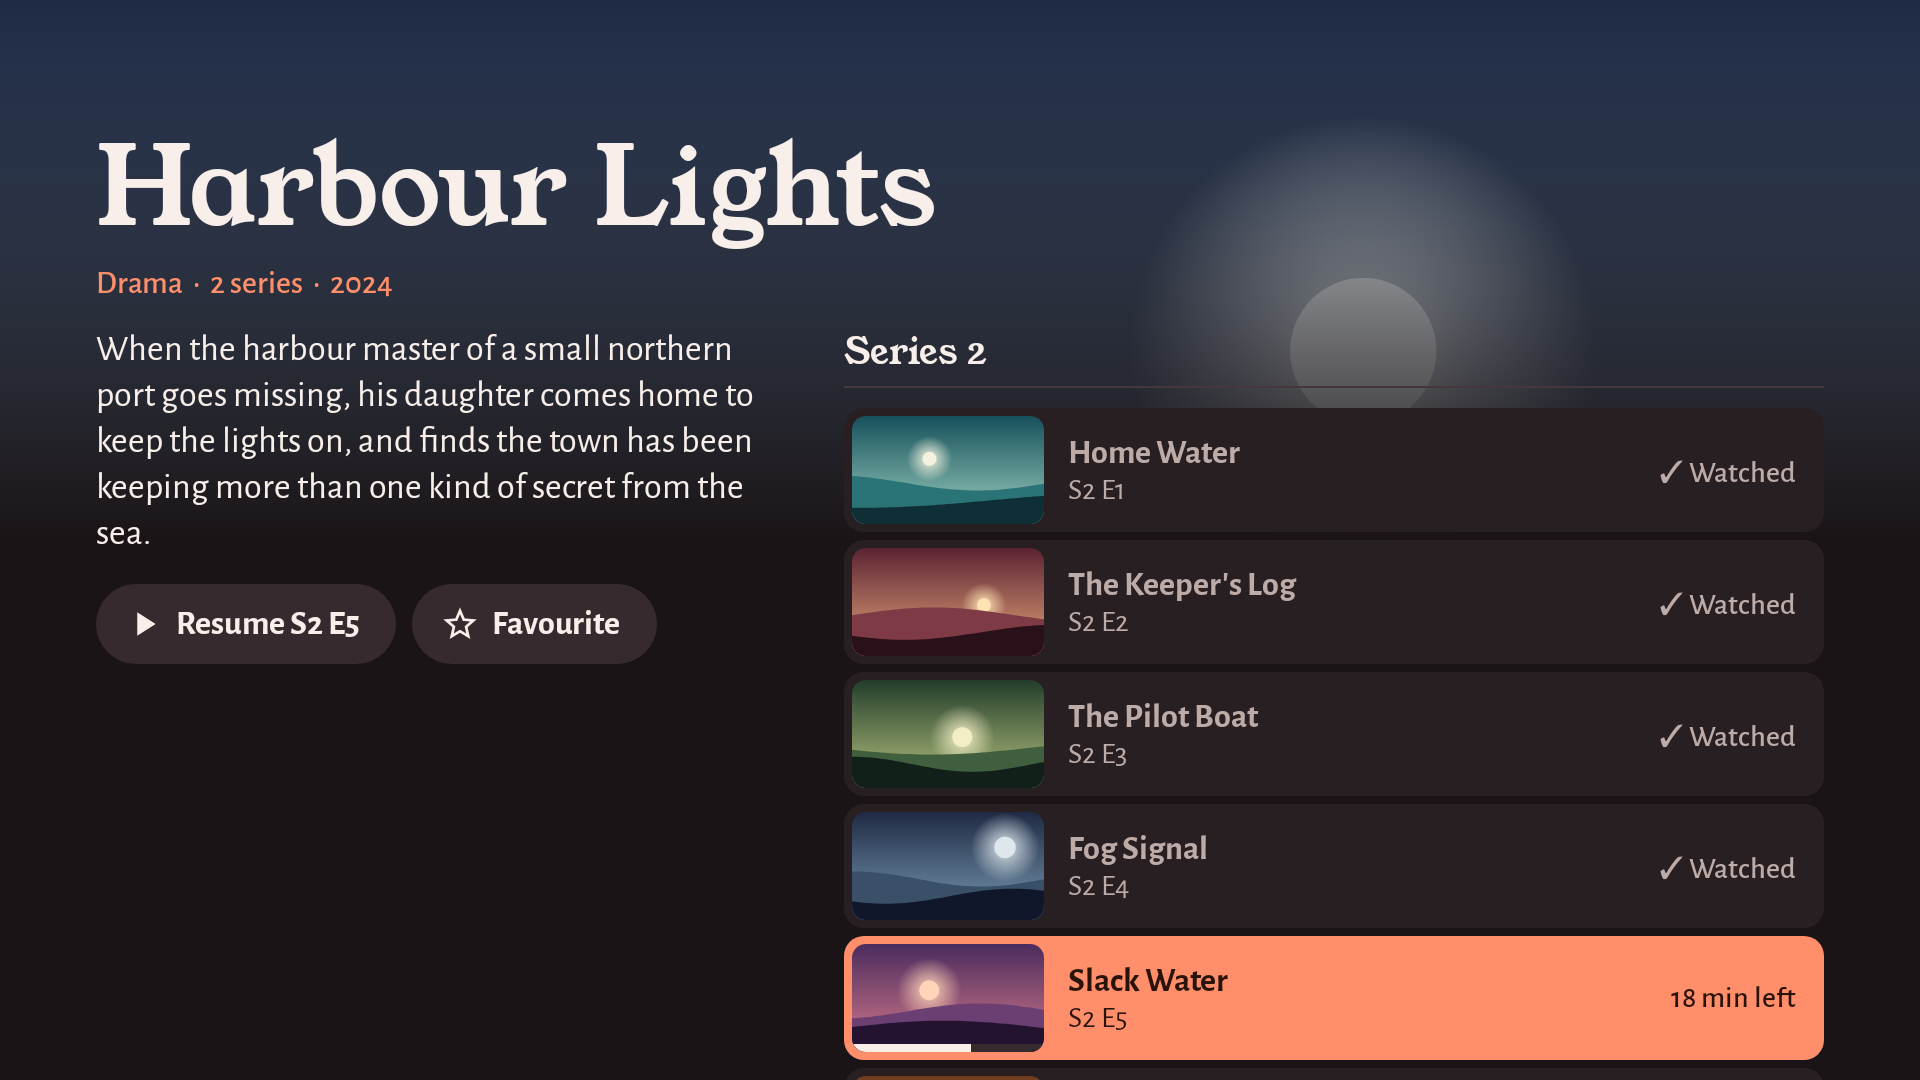
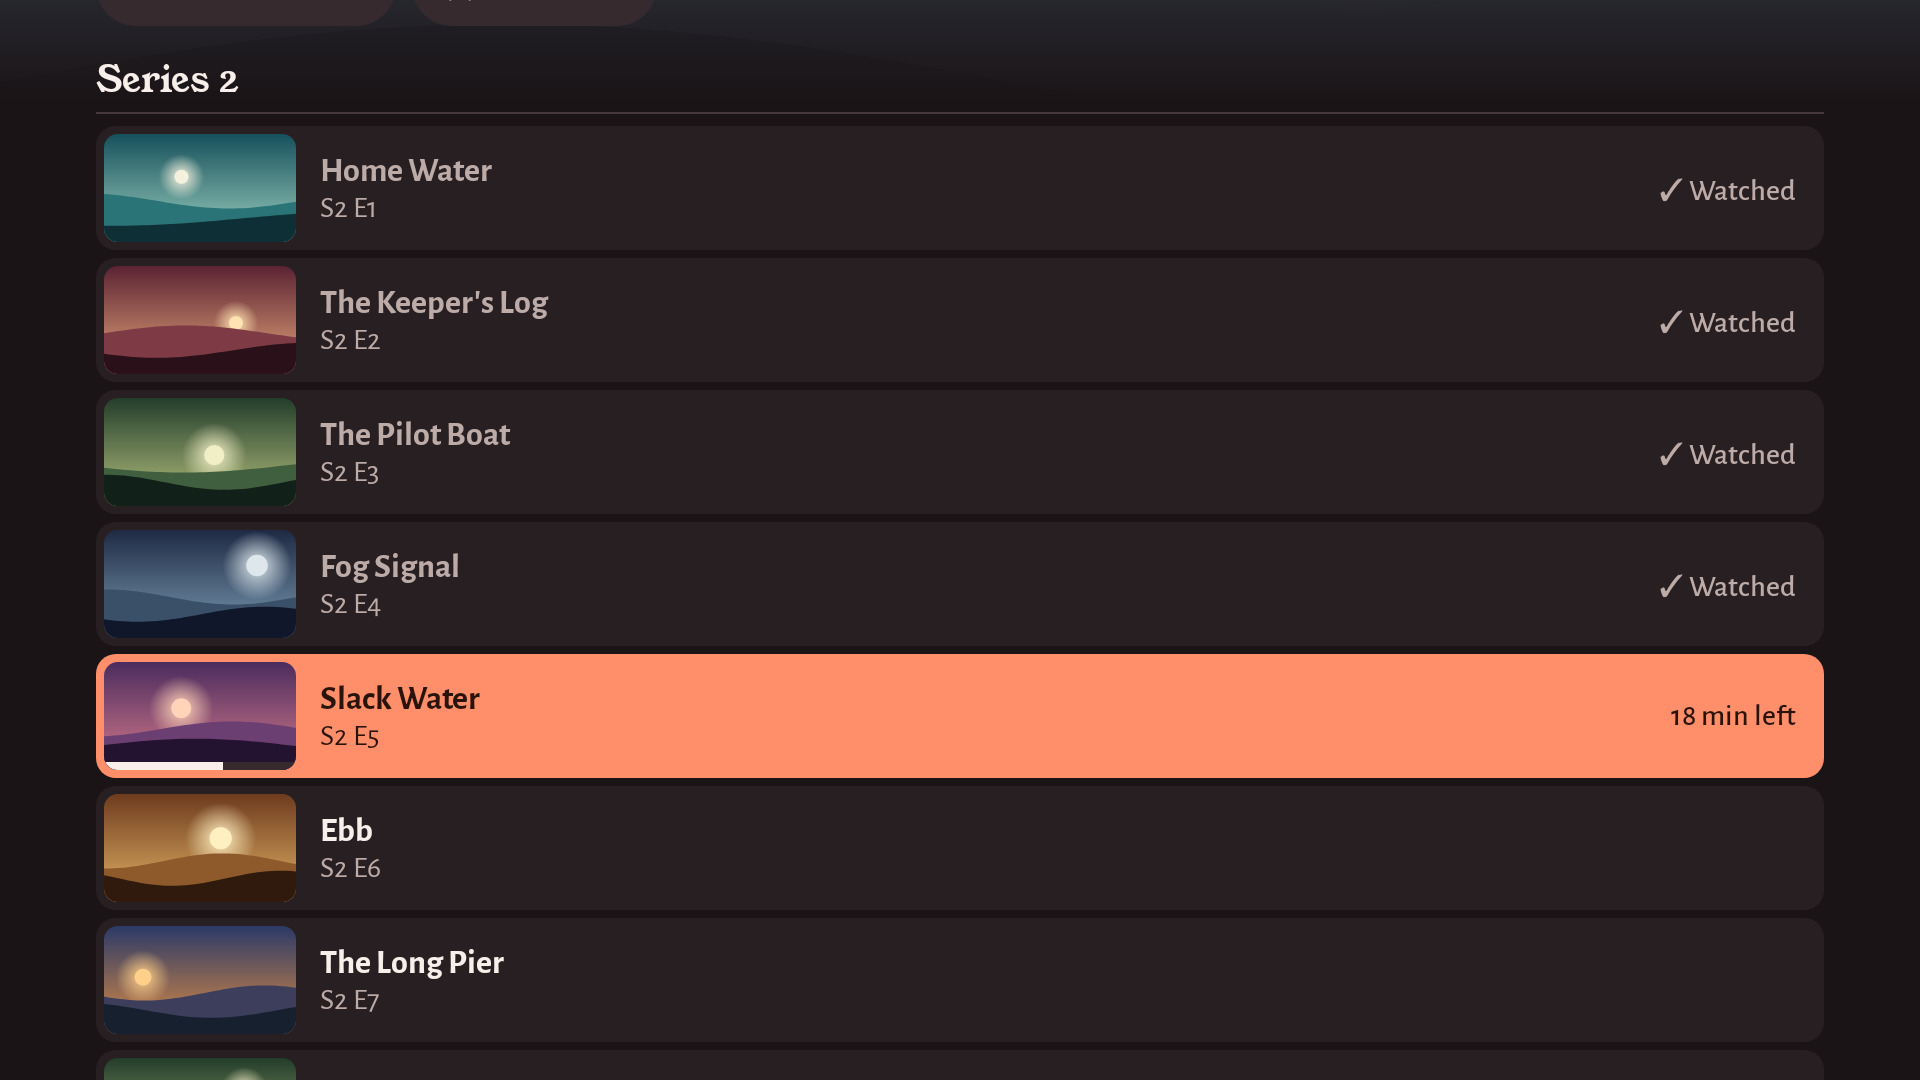
chore(#89): put direction E's episode list under the hero
Picture House's hero with full-width thumbnail rows beneath. Going into the
list snaps the hero and backdrop away, and going back up to the buttons brings
them back, so the highlight stays clear of the overscan margin.

diff --git a/app/src/main/java/app/opentv/ui/directions/DirectionCombined.kt b/app/src/main/java/app/opentv/ui/directions/DirectionCombined.kt
@@ -35,6 +35,7 @@ import androidx.compose.runtime.Composable
 import androidx.compose.runtime.getValue
 import androidx.compose.runtime.mutableStateOf
 import androidx.compose.runtime.remember
+import androidx.compose.runtime.rememberCoroutineScope
 import androidx.compose.runtime.setValue
 import androidx.compose.ui.Alignment
 import androidx.compose.ui.Modifier
@@ -53,10 +54,14 @@ import androidx.compose.ui.input.key.KeyEventType
 import androidx.compose.ui.input.key.key
 import androidx.compose.ui.input.key.onPreviewKeyEvent
 import androidx.compose.ui.input.key.type
+import androidx.compose.ui.layout.onPlaced
+import androidx.compose.ui.layout.positionInRoot
+import androidx.compose.ui.platform.LocalDensity
 import androidx.compose.ui.text.font.FontWeight
 import androidx.compose.ui.text.style.TextOverflow
 import androidx.compose.ui.unit.dp
 import androidx.compose.ui.unit.sp
+import kotlinx.coroutines.launch
 
 /*
  * E: the owner's combination from the first round. Picture House's colours, rounded cards with text
@@ -141,8 +146,7 @@ fun CombinedScreen(screen: Screen) {
         Screen.SHOWS_CATEGORIES -> Browse(movies = false, open = true)
         Screen.MOVIES -> Browse(movies = true, open = false)
         Screen.MOVIES_CATEGORIES -> Browse(movies = true, open = true)
-        Screen.DETAILS -> Details(onEpisode = false)
-        Screen.DETAILS_EPISODE -> Details(onEpisode = true)
+        Screen.DETAILS -> Details()
     }
 }
 
@@ -647,62 +651,75 @@ private val seriesEpisodes =
     ) + ProtoData.episodes + Item("Lights Out", "S2 E8", 38, Watch.Unwatched)
 
 /**
- * E's hero above Listings' two columns, with the real app's thumbnail-left rows. Stacking the rows
- * under the hero, as main does, would show about one and a half episodes before scrolling.
+ * Picture House's hero with the real app's thumbnail-left rows under it, so a film's page is the same
+ * hero with nothing beneath. The page scrolls as one, carrying the hero off as the highlight goes down.
  */
 @Composable
-private fun Details(onEpisode: Boolean) {
+private fun Details() {
     val current = remember { FocusRequester() }
+    val scroll = rememberScrollState()
+    val scope = rememberCoroutineScope()
+    var listTop by remember { mutableStateOf(0) }
+    // Snaps in one step between the hero and the list: left to itself the page scrolls only enough to
+    // show the row, which cuts the title in half and leaves the highlight in the overscan margin.
+    val showHero = { scope.launch { scroll.scrollTo(0) } }
+    val showList = { if (scroll.value < listTop) scope.launch { scroll.scrollTo(listTop) } }
     Box(Modifier.fillMaxSize().background(Bg)) {
-        Art(11, Modifier.fillMaxSize())
-        Box(
-            Modifier.fillMaxSize().background(
-                Brush.verticalGradient(0.05f to Bg.copy(alpha = 0f), 0.5f to Bg),
-            ),
-        )
-        Column(Modifier.fillMaxSize().padding(start = 48.dp, end = 48.dp, top = 56.dp)) {
+        // Leaves with the hero, through graphicsLayer so scrolling never redraws or re-measures it.
+        Box(Modifier.fillMaxSize().graphicsLayer { translationY = -scroll.value.toFloat() }) {
+            Art(11, Modifier.fillMaxSize())
+            Box(
+                Modifier.fillMaxSize().background(
+                    Brush.verticalGradient(0.2f to Bg.copy(alpha = 0f), 0.62f to Bg),
+                ),
+            )
+        }
+        Column(
+            Modifier
+                .fillMaxSize()
+                .verticalScroll(scroll)
+                .padding(start = 48.dp, end = 48.dp, top = 76.dp, bottom = 27.dp),
+        ) {
             OneLine(ProtoData.detailTitle, Ink, 54, Title)
             OneLine(ProtoData.detailMeta, Coral, 16, Body, weight = FontWeight.Medium)
+            Spacer(Modifier.height(6.dp))
+            Text(
+                ProtoData.detailBlurb,
+                color = Ink,
+                fontFamily = Body,
+                fontSize = 18.sp,
+                lineHeight = 23.sp,
+                maxLines = 3,
+                overflow = TextOverflow.Ellipsis,
+                modifier = Modifier.width(620.dp),
+            )
             Spacer(Modifier.height(12.dp))
-            Row(Modifier.fillMaxSize()) {
-                Column(Modifier.width(350.dp)) {
-                    Text(
-                        ProtoData.detailBlurb,
-                        color = Ink,
-                        fontFamily = Body,
-                        fontSize = 18.sp,
-                        lineHeight = 23.sp,
-                        maxLines = 6,
-                        overflow = TextOverflow.Ellipsis,
-                    )
-                    Spacer(Modifier.height(14.dp))
-                    Row(horizontalArrangement = Arrangement.spacedBy(8.dp)) {
-                        Action(Icons.Filled.PlayArrow, "Resume S2 E5", !onEpisode, current)
-                        Action(Icons.Filled.StarBorder, "Favourite", false, current)
-                    }
-                }
-                Spacer(Modifier.width(24.dp))
-                // A season's list stays in reach: Down from either button lands on the episode in progress.
-                Column(
-                    Modifier
-                        .weight(1f)
-                        .fillMaxHeight()
-                        .verticalScroll(rememberScrollState())
-                        .padding(bottom = 27.dp),
-                    verticalArrangement = Arrangement.spacedBy(4.dp),
-                ) {
-                    OneLine("Series 2", Ink, 18, Title)
-                    Box(Modifier.fillMaxWidth().height(1.dp).background(Rule))
-                    Spacer(Modifier.height(2.dp))
-                    seriesEpisodes.forEach { episode ->
-                        val inProgress = episode.watch is Watch.InProgress
-                        Tile(
-                            Modifier
-                                .fillMaxWidth()
-                                .then(if (inProgress) Modifier.focusRequester(current) else Modifier),
-                            initial = onEpisode && inProgress,
-                        ) { focused -> EpisodeRow(episode, focused) }
-                    }
+            Row(horizontalArrangement = Arrangement.spacedBy(8.dp)) {
+                Action(Icons.Filled.PlayArrow, "Resume S2 E5", true, current) { showHero() }
+                Action(Icons.Filled.StarBorder, "Favourite", false, current) { showHero() }
+            }
+            Spacer(Modifier.height(14.dp))
+            val margin = with(LocalDensity.current) { 27.dp.roundToPx() }
+            OneLine(
+                "Series 2",
+                Ink,
+                18,
+                Title,
+                Modifier.onPlaced { listTop = it.positionInRoot().y.toInt() + scroll.value - margin },
+            )
+            Spacer(Modifier.height(3.dp))
+            Box(Modifier.fillMaxWidth().height(1.dp).background(Rule))
+            Spacer(Modifier.height(6.dp))
+            Column(verticalArrangement = Arrangement.spacedBy(4.dp)) {
+                // Down from either button lands on the episode in progress, not the top of the list.
+                seriesEpisodes.forEach { episode ->
+                    val inProgress = episode.watch is Watch.InProgress
+                    Tile(
+                        Modifier
+                            .fillMaxWidth()
+                            .then(if (inProgress) Modifier.focusRequester(current) else Modifier),
+                        onFocused = { showList() },
+                    ) { focused -> EpisodeRow(episode, focused) }
                 }
             }
         }
@@ -764,8 +781,8 @@ private fun EpisodeRow(episode: Item, focused: Boolean) {
 }
 
 @Composable
-private fun Action(icon: ImageVector, text: String, primary: Boolean, down: FocusRequester) {
-    Tile(Modifier.focusProperties { this.down = down }, initial = primary) { focused ->
+private fun Action(icon: ImageVector, text: String, primary: Boolean, down: FocusRequester, onFocused: () -> Unit) {
+    Tile(Modifier.focusProperties { this.down = down }, initial = primary, onFocused = onFocused) { focused ->
         Row(
             Modifier
                 .height(40.dp)

diff --git a/app/src/test/java/app/opentv/DirectionsFocusTest.kt b/app/src/test/java/app/opentv/DirectionsFocusTest.kt
@@ -7,10 +7,12 @@ package app.opentv
 
 import androidx.compose.ui.input.key.Key
 import androidx.compose.ui.test.ExperimentalTestApi
+import androidx.compose.ui.test.assertIsDisplayed
 import androidx.compose.ui.test.hasAnyDescendant
 import androidx.compose.ui.test.hasText
 import androidx.compose.ui.test.isFocused
 import androidx.compose.ui.test.junit4.createComposeRule
+import androidx.compose.ui.test.onNodeWithText
 import androidx.compose.ui.test.performKeyInput
 import androidx.compose.ui.test.pressKey
 import app.opentv.ui.directions.Direction
@@ -62,6 +64,15 @@ class DirectionsFocusTest {
         compose.onNode(isFocused()).performKeyInput { pressKey(Key.DirectionDown) }
         compose.waitForIdle()
         focusedHolds("Slack Water")
+        compose.onNode(isFocused()).assertIsDisplayed()
+        captureScreen("e_combined_details_episode")
+        repeat(5) {
+            compose.onNode(isFocused()).performKeyInput { pressKey(Key.DirectionUp) }
+            compose.waitForIdle()
+        }
+        compose.onNode(isFocused() and (hasAnyDescendant(hasText("Resume S2 E5")) or hasAnyDescendant(hasText("Favourite"))))
+            .assertIsDisplayed()
+        compose.onNodeWithText("Harbour Lights").assertIsDisplayed()
     }
 
     @Test

diff --git a/prototype-screenshots/89-directions/index.html b/prototype-screenshots/89-directions/index.html
@@ -146,7 +146,7 @@ const directions = [
   ["b_hearth", "B: Hearth", "Warmest. Amber and brown, a serif with character, the largest artwork, and an amber glow."],
   ["c_listings", "C: Listings", "Type-led, like a printed listings page. Oxblood-black, a slab serif, and a cream marker."],
   ["d_picture_house", "D: Picture House", "Artwork first. Plum-charcoal, a round sans, text on the art, and a coral ring."],
-  ["e_combined", "E: Combined", "Your combination: Picture House's colours, rounded cards, pill buttons and Shows and details layouts; Hearth's type and larger first card; Listings' square guide and Live Preview layout; an episode list with thumbnails; and a categories sidebar. Cover art is portrait, and anything showing progress is landscape."],
+  ["e_combined", "E: Combined", "Your combination: Picture House's colours, rounded cards, pill buttons and Shows and details layouts; Hearth's type and larger first card; Listings' square guide and Live Preview layout; an episode list with thumbnails under the hero; and a categories sidebar. Cover art is portrait, and anything showing progress is landscape."],
 ];
 const combinedOnly = [
   ["guide_categories", "Live guide with categories open"],

diff --git a/app/src/main/java/app/opentv/ui/directions/DirectionsHost.kt b/app/src/main/java/app/opentv/ui/directions/DirectionsHost.kt
@@ -19,7 +19,6 @@ enum class Direction(val key: String, val label: String) {
 fun DirectionScreen(direction: Direction, screen: Screen) {
     val base = when (screen) {
         Screen.GUIDE_CATEGORIES -> Screen.GUIDE
-        Screen.DETAILS_EPISODE -> Screen.DETAILS
         Screen.SHOWS_CATEGORIES, Screen.MOVIES, Screen.MOVIES_CATEGORIES -> Screen.SHOWS
         else -> screen
     }

diff --git a/app/src/main/java/app/opentv/ui/directions/DirectionsCommon.kt b/app/src/main/java/app/opentv/ui/directions/DirectionsCommon.kt
@@ -84,7 +84,6 @@ enum class Screen {
     SHOWS_CATEGORIES,
     MOVIES,
     MOVIES_CATEGORIES,
-    DETAILS_EPISODE,
 }
 
 /** What a highlight's OK does on the emulator build. Screenshots never press it. */
